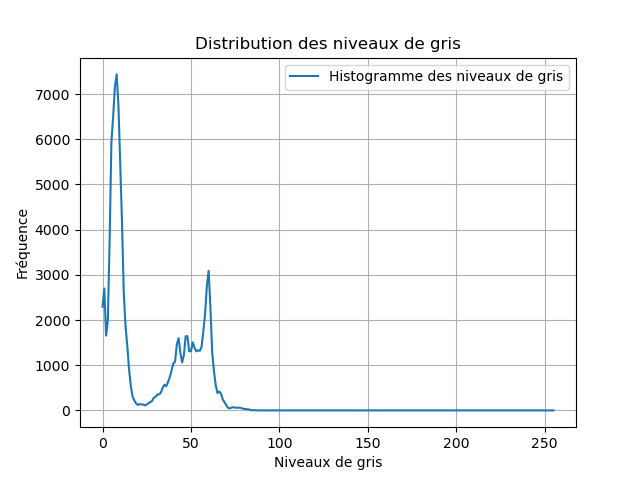
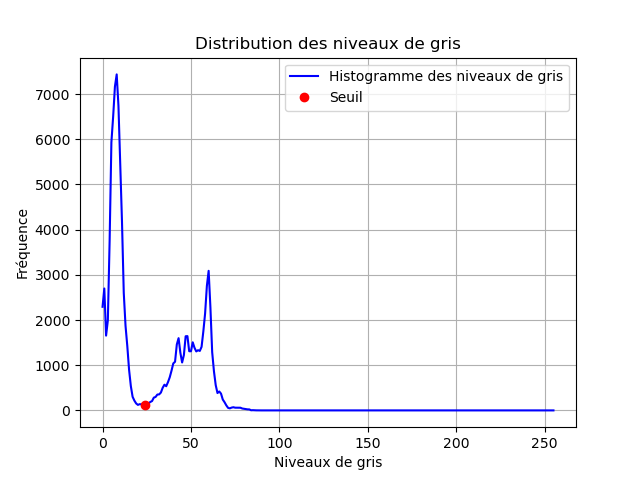
seuillage

diff --git a/flot_optique.py b/flot_optique.py
@@ -5,7 +5,6 @@ import os
 
 def calcul_moyenne_ecart_type_N_images(Lpath,affichage=False):
     # Lpath est une liste de N chemins d'accès vers des images
-    # On suppose que toutes les images ont la même taille
     N = len(Lpath)
     Limages=[]
     for i in range(N):
@@ -31,9 +30,11 @@ def calcul_moyenne_ecart_type_N_images(Lpath,affichage=False):
     img_ecart_type = ecart_type.astype(np.uint8)
     Lx = np.arange(256)  # Valeurs de 0 à 255
     Ly, _ = np.histogram(img_ecart_type, bins=256, range=(0, 256))
+    seuil=Lx[np.argmin(Ly[:50])]
 
     # Tracer l'histogramme
-    plt.plot(Lx, Ly, label="Histogramme des niveaux de gris")
+    plt.plot(Lx, Ly,'b', label="Histogramme des niveaux de gris")
+    plt.plot(seuil,Ly[seuil],'ro',label="Seuil")
     plt.xlabel("Niveaux de gris")
     plt.ylabel("Fréquence")
     plt.title("Distribution des niveaux de gris")
@@ -46,11 +47,30 @@ def calcul_moyenne_ecart_type_N_images(Lpath,affichage=False):
         cv.imshow("Ecart type", ecart_type.astype(np.uint8))
         cv.waitKey(0)
 
+    image_seuillee = np.zeros((h, w), dtype=np.uint8)
+    for i in range(h):
+        for j in range(w):
+            if ecart_type[i, j] > seuil:
+                image_seuillee[i, j] = 255
+            else:
+                image_seuillee[i, j] = 0
+    if affichage:
+        cv.imshow("Image seuillée", image_seuillee)
+        cv.waitKey(0)
+    cv.imwrite("image_seuillee_{}.png".format(N), image_seuillee)
+
 
 
 if __name__ == "__main__":
-    # lecture du dossier images
-    Lpath=sorted(os.listdir("images"))
-    Lpath=["images/"+path for path in Lpath]
-    print(Lpath)
-    calcul_moyenne_ecart_type_N_images(Lpath[:])
+    # lecture du dossier images et selection des pixels
+    # Lpath=sorted(os.listdir("images"))
+    # Lpath=["images/"+path for path in Lpath]
+    # print(Lpath)
+    # calcul_moyenne_ecart_type_N_images(Lpath[:])
+
+    from hierarchicalsigmadelta import *
+    image_seuil=cv.imread("image_seuillee_614.png", cv.IMREAD_GRAYSCALE)
+    video_path = "video.avi"
+    width, height = 384, 288  # Adjust to your video's dimensions
+    detector = HierarchicalSigmaDeltaMotionDetector(width, height)
+    process_video(video_path, detector,image_seuil)

diff --git a/hierarchicalsigmadelta.py b/hierarchicalsigmadelta.py
@@ -35,7 +35,7 @@ class HierarchicalSigmaDeltaMotionDetector:
         return self.E * 255
 
 
-def process_video(video_path, detector):
+def process_video(video_path, detector,image_seuil=None):
     import cv2
 
     cap = cv2.VideoCapture(video_path)
@@ -44,8 +44,12 @@ def process_video(video_path, detector):
         ret, frame = cap.read()
         if not ret:
             break
-
+        
         gray = cv2.cvtColor(frame, cv2.COLOR_BGR2GRAY)
+        # Seuillage
+        if image_seuil is not None:
+            gray = gray * (image_seuil // 255)
+            
         motion_mask = detector.update(gray)
 
         cv2.imshow("Motion Detection", motion_mask)
